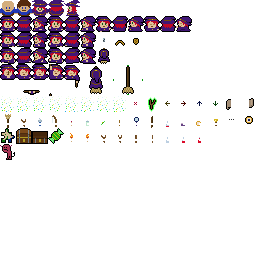
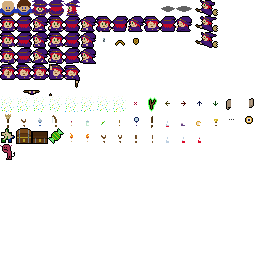
broom. decided on Full Moon style instead of 30s Apothecary style

Changed region(s): [[0.625, 0.0, 0.875, 0.1875], [0.3438, 0.1875, 0.4375, 0.375], [0.4688, 0.25, 0.5312, 0.375]]

diff --git a/src/game/hero/hero_item.c b/src/game/hero/hero_item.c
@@ -5,11 +5,27 @@
  
 static int broom_begin(struct sprite *sprite) {
   SPRITE->itemid_in_progress=NS_itemid_broom;
+  sprite->physics&=~((1<<NS_physics_water)|(1<<NS_physics_hole));
+  sprite_group_add(GRP(floating),sprite);
   return 1;
 }
 
 static void broom_end(struct sprite *sprite) {
+  sprite->physics|=((1<<NS_physics_water)|(1<<NS_physics_hole));
+  if (!sprite_test_position(sprite)) {
+    // Try quantizing to the cell. If it's still a collision, restore and prevent the unbrooming.
+    double x0=sprite->x,y0=sprite->y;
+    sprite->x=(int)sprite->x+0.5;
+    sprite->y=(int)sprite->y+0.5;
+    if (!sprite_test_position(sprite)) {
+      sprite->physics&=~((1<<NS_physics_water)|(1<<NS_physics_hole));
+      sprite->x=x0;
+      sprite->y=y0;
+      return;
+    }
+  }
   SPRITE->itemid_in_progress=0;
+  sprite_group_remove(GRP(floating),sprite);
 }
 
 static void broom_update(struct sprite *sprite,double elapsed) {
@@ -17,7 +33,10 @@ static void broom_update(struct sprite *sprite,double elapsed) {
     broom_end(sprite);
     return;
   }
-  //TODO broom
+  // Was thinking of doing the Thirty-Seconds-Apothecary-style relative steering, but now having second thoughts.
+  // The simpler Full Moon and Dead Weight style broom is much easier to do, and also easier for the user to understand.
+  // We did the relative broom here in Mark 1. It was awkward switching between relative and absolute control.
+  // So for now, hero_item.c only manages toggling the broom state on and off. Motion is just like walking, in hero_motion.c.
 }
 
 /* Divining Rod.

diff --git a/src/game/hero/hero_motion.c b/src/game/hero/hero_motion.c
@@ -5,7 +5,7 @@
  
 static int item_prevents_motion(uint8_t itemid) {
   switch (itemid) {
-    case NS_itemid_broom: // Broom motion is a whole different thing.
+    //case NS_itemid_broom: // Broom motion is a whole different thing.
     case NS_itemid_wand:
     case NS_itemid_fishpole:
     case NS_itemid_hookshot:
@@ -83,6 +83,7 @@ static void hero_motion_update_input(struct sprite *sprite) {
   } else if (nindy&&(nindy==-SPRITE->facedy)) {
     SPRITE->facedy=nindy;
   }
+  if (SPRITE->facedx) SPRITE->broomdx=SPRITE->facedx;
   
   /* Commit the new state, and begin walking if we aren't yet.
    */
@@ -142,6 +143,9 @@ void hero_motion_update(struct sprite *sprite,double elapsed) {
   }
   
   double speed=6.0*elapsed;
+  if (SPRITE->itemid_in_progress==NS_itemid_broom) {
+    speed=12.0*elapsed;
+  }
   if (!sprite_move(sprite,SPRITE->indx*speed,SPRITE->indy*speed)) {
     // If she's trying to move cardinally, perform an off-axis correction.
     if (SPRITE->indx&&!SPRITE->indy) hero_fudge_vert(sprite,elapsed);

diff --git a/src/game/hero/hero_render.c b/src/game/hero/hero_render.c
@@ -52,7 +52,17 @@ static void hero_render_errata(struct sprite *sprite,int x,int y) {
  */
  
 static void hero_render_broom(struct sprite *sprite,int x,int y) {
-  //TODO
+  int elevation=(g.framec&16)?-1:0;
+  graf_tile(&g.graf,x+SPRITE->broomdx,y+8,0x0b+elevation,0); // shadow
+  uint8_t tileid=0x0c;
+  if (SPRITE->indx) tileid=(g.framec&8)?0x1c:0x2c;
+  if (SPRITE->broomdx>0) {
+    graf_tile(&g.graf,x-(NS_sys_tilesize>>1),y+elevation,tileid+1,EGG_XFORM_XREV);
+    graf_tile(&g.graf,x+(NS_sys_tilesize>>1),y+elevation,tileid,EGG_XFORM_XREV);
+  } else {
+    graf_tile(&g.graf,x-(NS_sys_tilesize>>1),y+elevation,tileid,0);
+    graf_tile(&g.graf,x+(NS_sys_tilesize>>1),y+elevation,tileid+1,0);
+  }
 }
 
 /* Encoding on wand, complete replacement.

diff --git a/src/game/hero/hero_internal.h b/src/game/hero/hero_internal.h
@@ -32,6 +32,7 @@ struct sprite_hero {
   double safex,safey; // If we hookshot into the water or something, reappear here.
   struct sprite_group *pumpkin; // Null until the first time we need it.
   uint32_t pumpkin_physics;
+  int broomdx; // Like (facedx) but never zero.
   
   // For door transitions.
   int door_listener; // Nonzero if transition in progress. It's a map listenerid from the camera.

diff --git a/src/game/hero/sprite_hero.c b/src/game/hero/sprite_hero.c
@@ -16,6 +16,7 @@ static void _hero_del(struct sprite *sprite) {
  
 static int _hero_init(struct sprite *sprite) {
   SPRITE->facedy=1;
+  SPRITE->broomdx=1;
   SPRITE->item_blackout=1;
   SPRITE->qx=-1;
   SPRITE->qy=-1;

diff --git a/src/game/camera.h b/src/game/camera.h
@@ -12,7 +12,7 @@
 #define CAMERA_SCOPE_LIMIT 4
 
 #define CAMERA_PAN_SPEED 10.0
-#define CAMERA_LOCK_DISTANCE 0.250
+#define CAMERA_LOCK_DISTANCE 0.450
 
 // Global singleton (g.camera).
 struct camera {

diff --git a/README.md b/README.md
@@ -54,7 +54,7 @@ Requires [Egg](https://github.com/aksommerville/egg2) to build.
 - - [x] match
 - - [x] compass
 - - [x] hookshot
-- - [ ] broom
+- - [x] broom
 - - [ ] fishpole
 - [ ] Battle
 - - [ ] Generic framework
